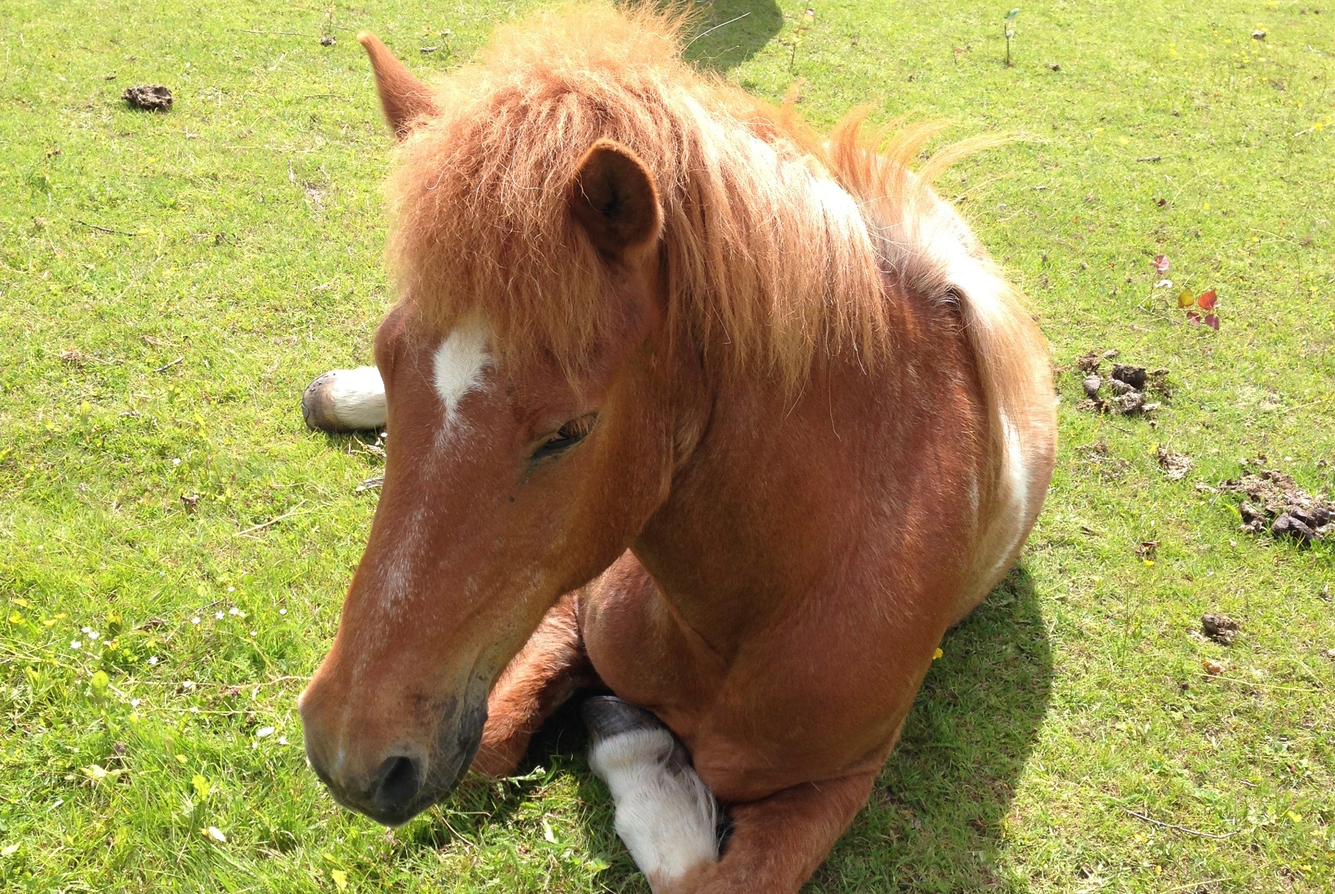
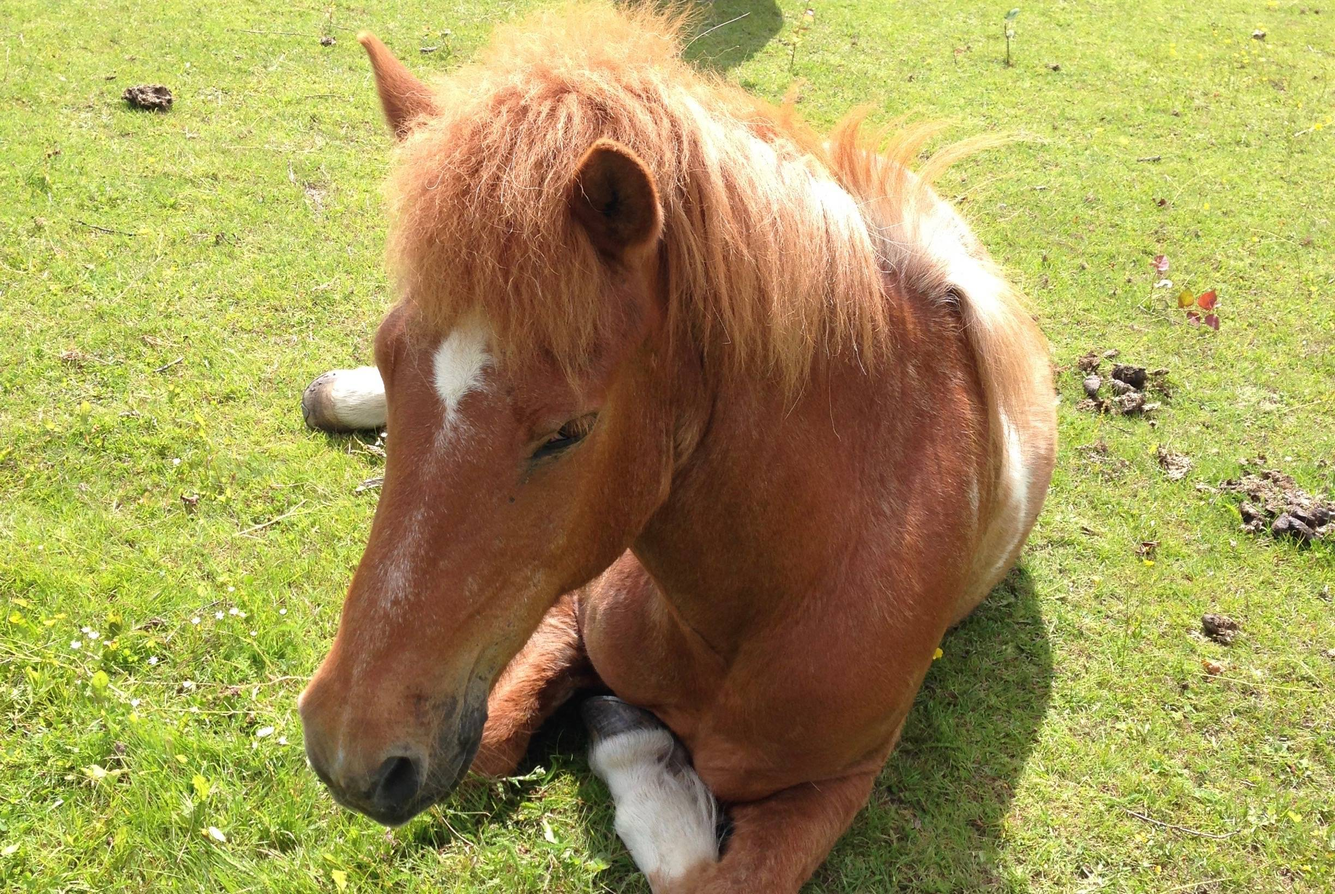
new

diff --git a/Stallet.html b/Stallet.html
@@ -19,7 +19,7 @@
 
       <!--Bilden längst upp på sidan-->
 
-      <img src="img/Kummin.jpeg" alt="Häst" style="width:100%">
+      <img src="img/Kummin.jpg" alt="Häst" style="width:100%">
 
       <!--Rubrik-->
 
